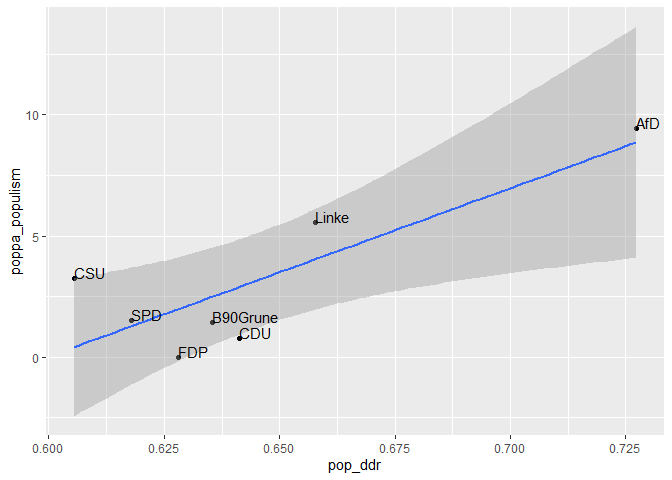
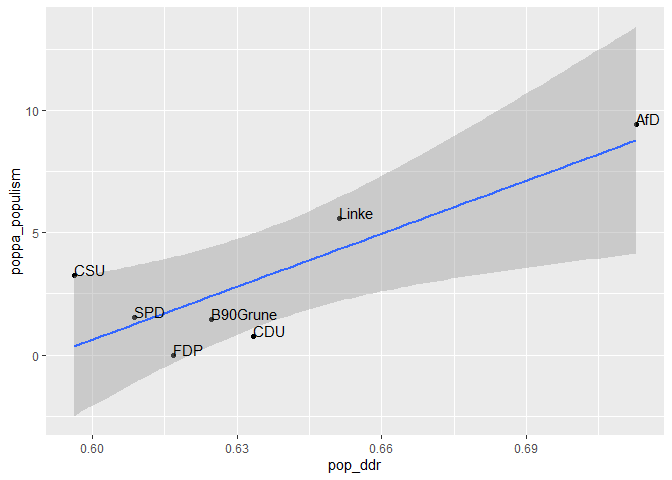
update vignette and readme

diff --git a/README.md b/README.md
@@ -4,6 +4,9 @@
 # dictvectoR <img src="man/figures/logo.png" align="right" height="200" />
 
 <!-- badges: start -->
+
+[![DOI](https://zenodo.org/badge/438666102.svg)](https://zenodo.org/badge/latestdoi/438666102)
+[![R-CMD-check](https://github.com/thieled/dictvectoR/actions/workflows/R-CMD-check.yaml/badge.svg)](https://github.com/thieled/dictvectoR/actions/workflows/R-CMD-check.yaml)
 <!-- badges: end -->
 
 dictvectoR implements the “Distributed Dictionary Representation” (DDR)
@@ -130,9 +133,9 @@ tw_data %>%
   dplyr::arrange(desc(pop_ddr)) %>%
   head(3) %>%
   dplyr::pull(full_text)
-#> [1] "Ob Deutschkurs oder Job - die Bilanz von \"geflüchteten\" #Frauen stellt sich nach fünf Jahren in #Deutschland ernüchternd dar. Merkels Fachkräfte-Märchen zerschellt krachend an der Realität - - der deutsche #Sozialstaat machts möglich! #AfD #Migration https://t.co/oTrP2ewkpv https://t.co/kr4PPh2a1z"
-#> [2] "#UNO finanziert #Islamisten-#Hass mit unserem #Steuergeld!\n\nSeit Jahrzehnten haben die Vereinten Nationen ein massives Problem mit #Islamismus und islamischem #Antisemitismus in den eigenen Reihen – und es wird nicht besser.\n\nhttps://t.co/G9MMaQrqIY https://t.co/fzjQ8Ty2qq"                       
-#> [3] "Seit es das #Grundgesetz gibt, hatte #Deutschland keinen Regierungschef, der deutsche Interessen so schlecht vertritt und den Ausverkauf des deutschen Volksvermögens und der Staatsfinanzen so schamlos betreibt, wie Angela #Merkel! #AfD #Corona #Covid19 https://t.co/qGKYUgqcSe"
+#> [1] "Ein Finanzminister #Scholz, der sein Land verkauft, hat im Kanzleramt nichts verloren. Nach #Merkel muss der Neuanfang folgen und zu dem gehört zuvörderst eine Finanzpolitik im Sinne 🇩🇪, ohne Schuldenunion und schwarzes Transferloch Richtung Brüssel! #AfD https://t.co/JWY4QwgPAS https://t.co/h58SWQcv0b"
+#> [2] "Korruption, Vetternwirtschaft, Geldgier, Amtsmissbrauch. Bei #Chebli, ihrem Mann Nizar Maarouf und deren “Clan“ ist alles dabei. Geld verdienen zulasten von Berlins Kranken. Man muss diesen schwarzen und rotrotgrünen Sumpf dringend trockenlegen. #Vivantes https://t.co/zKLd0HrVVE"                        
+#> [3] "Merkel macht Rechtsbruch zum politischen Prinzip! Die #GroKo glänzt durch Totalversagen. Von Wirtschaft über Klima und Justiz bis hin zu Flüchtlingspolitik und #Corona-Wahn – alles haben #Merkel und ihre Regierung in den Sand gesetzt. Meine Generalabrechnung seht Ihr im Video: https://t.co/CKTKcvgd4W"
 ```
 
 If you speak some German, you can judge from face-validity that these
@@ -164,7 +167,7 @@ measurement are highly correlated:
 
 ``` r
 cor(tw_party$pop_ddr, tw_party$poppa_populism)
-#> [1] 0.8342808
+#> [1] 0.8376652
 ```
 
 ## Finding keywords
